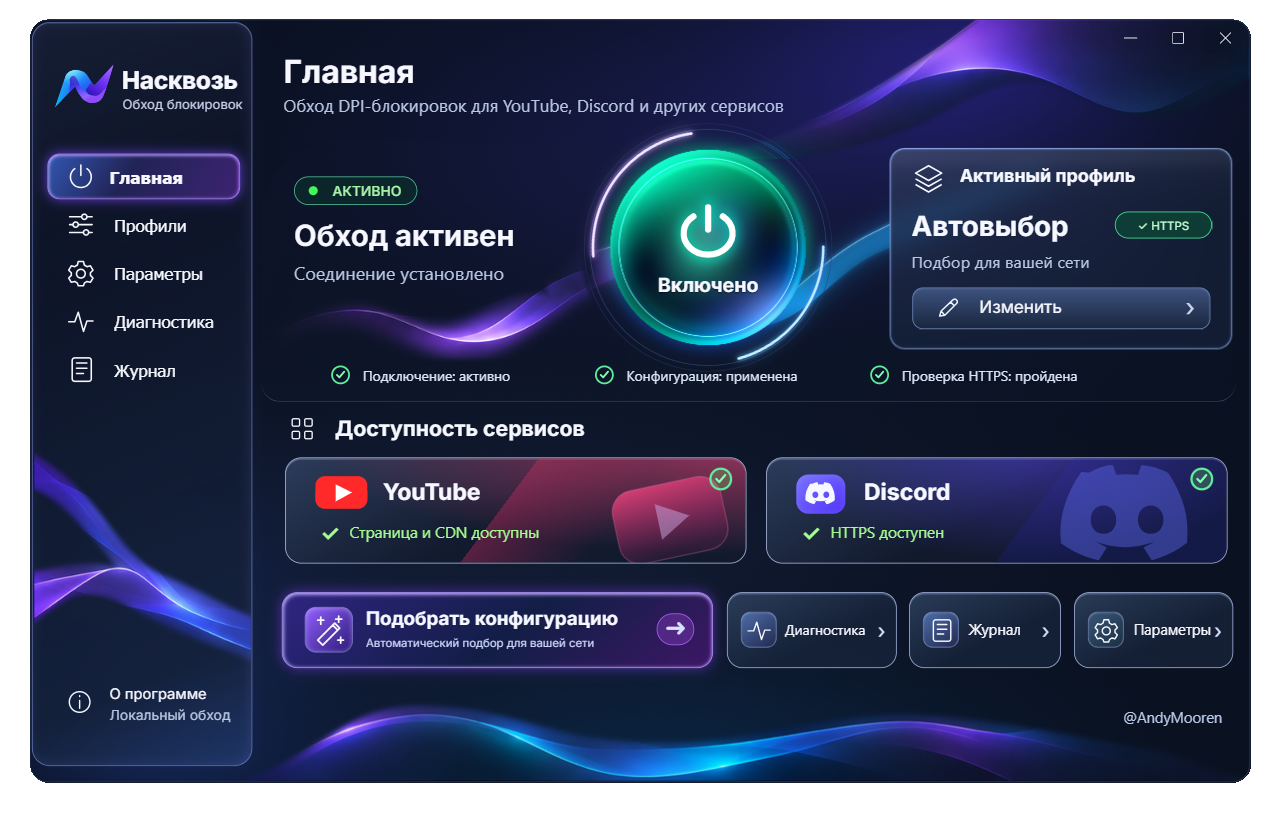
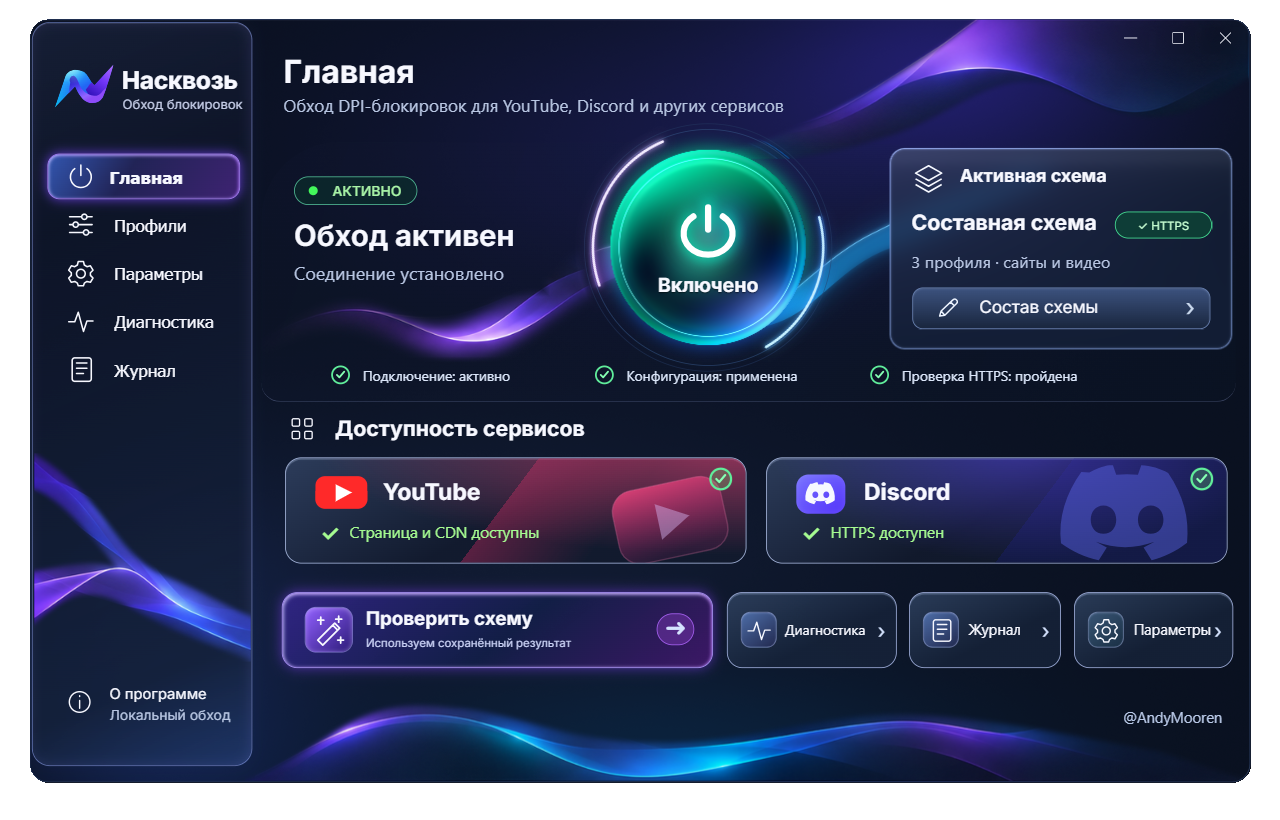
Describe saved schemes and first confirmed selection in 2.0.2

diff --git a/README.md b/README.md
@@ -29,13 +29,17 @@
 
 Рядом с EXE должны оставаться папки `_internal`, `engines` и `config`. Отдельно перенесённый EXE работать не будет. Для запуска скачивайте **Naskvoz-Windows-x64.zip** из раздела Releases.
 
-Первичный подбор занимает несколько минут. На тестовом подключении он занял около четырёх минут; при таймаутах и полном поиске ждать придётся дольше. Текущий этап виден в окне. Подбор можно остановить.
+В версии **2.0.2** быстрый подбор останавливается на первой схеме, которая прошла полное подтверждение. Если разным сервисам нужны разные настройки, программа сохраняет их вместе. При таймаутах поиск всё ещё может занять несколько минут. Текущий этап виден в окне; подбор можно остановить.
 
-### Повторное включение
+### Сохранённая схема
 
-Начиная с версии **2.0.1**, «Автовыбор» сначала запускает и проверяет последнюю рабочую схему. Если она проходит проверку, перебор других вариантов не выполняется.
+При следующем включении запускается последняя рабочая схема с короткой проверкой HTTPS и видеосерверов. Программа не сравнивает весь каталог и не загружает тестовое видео заново при каждом запуске. Неудачные запросы перепроверяются.
 
-Если схема не прошла проверку, появляется сообщение: **«Сохранённая схема обхода устарела. Производится подбор новой»**. После этого программа подбирает замену. Кратковременные сбои перепроверяются; если недоступен и контрольный сайт, программа предлагает проверить интернет или DNS.
+Если один из сервисов полностью перестал отвечать после перепроверки, программа сообщает об этом и подбирает замену. Частичный сбой, например таймаут CDN Discord при работающем API, показывает предупреждение и сохраняет работающий обход. Если недоступен и контрольный сайт, программа предлагает проверить интернет или DNS. При сбое только видео обновляется только видеосхема. Ошибка определения CDN сама по себе не запускает новый поиск.
+
+В карточке справа видно название выбранной схемы. Надпись **«Составная схема»** означает, что для сайтов и видео применяются разные профили. Нажмите **«Состав схемы»**, чтобы посмотреть их названия и домены. Тот же список есть на странице «Профили».
+
+Кнопка **«Проверить схему»** использует сохранённый результат. Для намеренного нового поиска откройте **«Профили → Подобрать новую схему»**. В параметрах можно выбрать сравнение всех 40 вариантов: первая подтверждённая схема не обязательно самая быстрая из всего каталога.
 
 При обновлении закройте программу и распакуйте новый архив поверх прежней папки. Сохраните папку **`data`**: в ней находятся настройки и последняя рабочая схема. В новом пустом каталоге подбор потребуется заново.
 

diff --git a/README.en.md b/README.en.md
@@ -14,9 +14,11 @@ A Windows app that tests and selects local DPI bypass configurations for YouTube
 
 Requires Windows 10/11 x64 and [Microsoft Edge WebView2 Runtime](https://developer.microsoft.com/microsoft-edge/webview2/). Python is bundled in the release. No proxy or remote server is required for the local bypass methods.
 
-Initial selection takes several minutes. Stop any other DPI bypass engine before running it. Settings include IPv4/IPv6, QUIC handling, a YouTube URL for troubleshooting, manual profiles and an optional experimental Discord UDP mode.
+Version **2.0.2** stops quick selection once a configuration has passed repeated confirmation for every target. Different services can use separate profiles within one saved configuration. Timeouts can still make selection take several minutes. Stop any other DPI bypass engine before running it. Settings include IPv4/IPv6, QUIC handling, a YouTube URL for troubleshooting, manual profiles and an optional experimental Discord UDP mode.
 
-From **2.0.1**, automatic mode checks the last working configuration first. It searches for a replacement only if that check fails. Transient failures are checked again; a failed connectivity control reports a network or DNS problem instead of starting a new search.
+On later starts, the app applies the last working configuration and runs a short HTTPS/CDN check. It does not compare the whole catalog or repeat media downloads on each start. Failed requests are checked again. A partial failure, such as a Discord CDN timeout while its API works, keeps the bypass running with a warning. Automatic replacement starts if a service stops responding entirely. If only video fails, only the video profile is replaced. Unavailable CDN discovery shows a warning instead of starting a new search. A failed connectivity control reports a network or DNS problem.
+
+The main card shows the selected configuration. **«Составная схема»** means several profiles are used for different sites or video servers. Press **«Состав схемы»** to view their names and domains; they are also listed on the Profiles page. Use **«Проверить схему»** to check the saved result, or **«Профили → Подобрать новую схему»** to request a new selection. Full comparison remains available in Settings; the first confirmed configuration may not be the fastest in the catalog.
 
 To update, close the app and extract the new archive into the existing folder. Keep **`data`** to preserve settings and the last working configuration. A fresh folder needs an initial selection.
 
